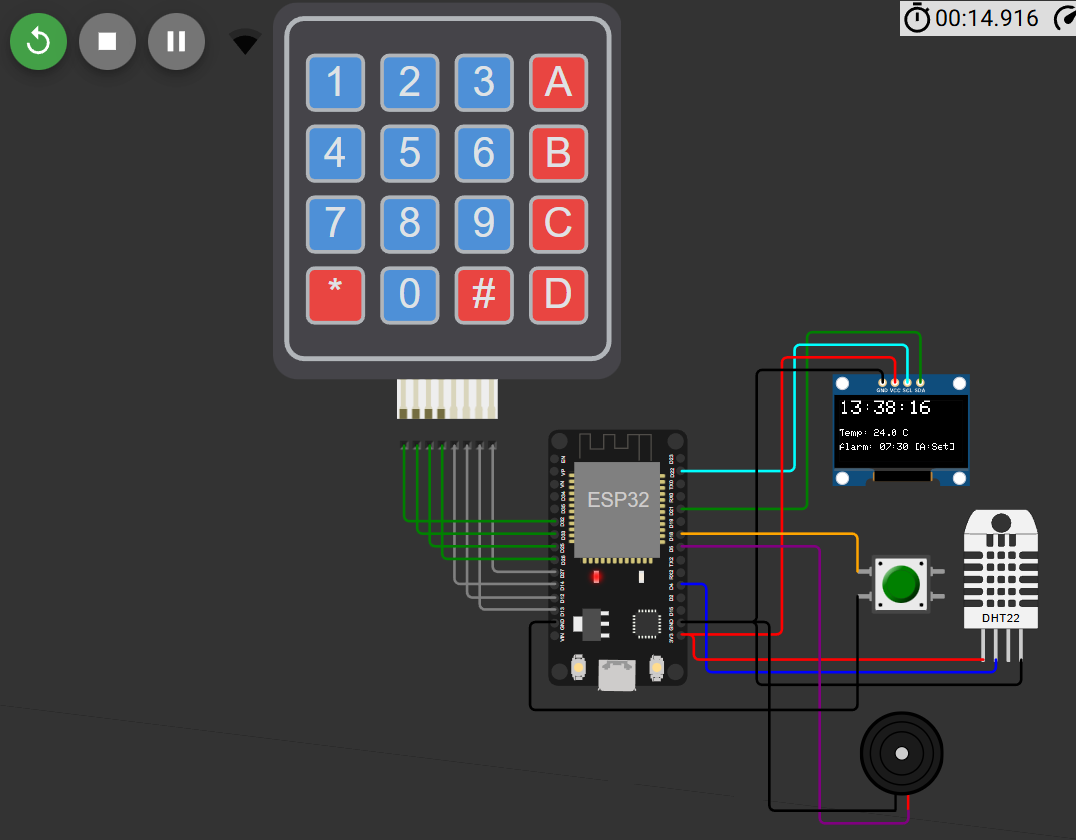
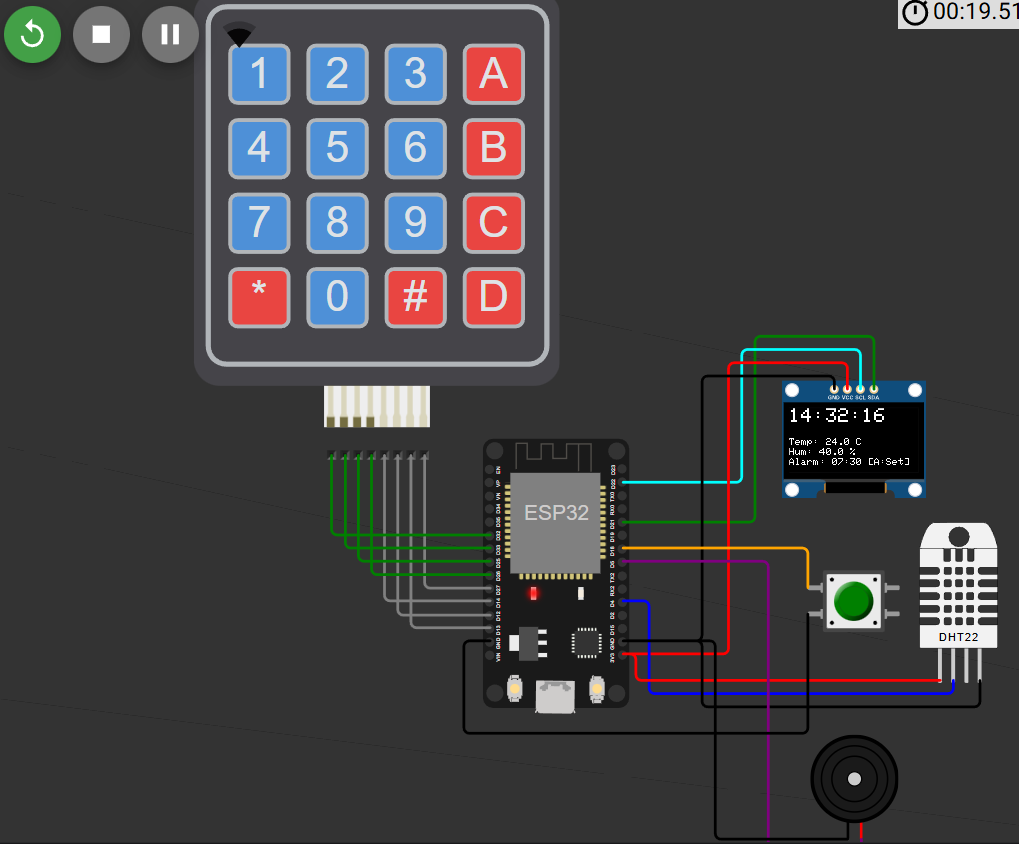
add hum

Changed region(s): [[0.0, 0.0, 1.0, 1.0], [0.8214, 0.0, 1.0, 0.0619]]

diff --git a/src/main.cpp b/src/main.cpp
@@ -26,6 +26,7 @@ Adafruit_SSD1306 display(SCREEN_WIDTH, SCREEN_HEIGHT, &Wire, -1);
 #define DHTTYPE DHT22
 DHT dht(DHTPIN, DHTTYPE);
 float currentTemp = 0.0;
+float currentHum = 0.0;
 unsigned long lastDHTRead = 0; // 用於非阻塞式讀取溫度的計時器
 
 // --- 硬體腳位 ---
@@ -117,6 +118,7 @@ void loop() {
   // 2. 非阻塞式讀取溫度 (每 2000 毫秒讀一次，避免 DHT 拖慢迴圈速度)
   if (millis() - lastDHTRead > 2000) {
     currentTemp = dht.readTemperature();
+    currentHum = dht.readHumidity();
     lastDHTRead = millis();
   }
 
@@ -190,10 +192,19 @@ void loop() {
       display.println("Temp Error");
     } else {
       display.printf("Temp: %.1f C\n", currentTemp);
+
     }
     
+    // 顯示humidity
+    display.setCursor(0, 40);
+    if (isnan(currentHum)) {
+      display.println("Hum Error");
+    } else {
+      display.printf("Hum: %.1f %%\n", currentHum);
+    }
+
     // 顯示鬧鐘設定與提示
-    display.setCursor(0, 45);
+    display.setCursor(0, 50);
     display.printf("Alarm: %02d:%02d ", alarmHour, alarmMinute);
     if (isAlarmRinging) {
       display.print("[RING!]");